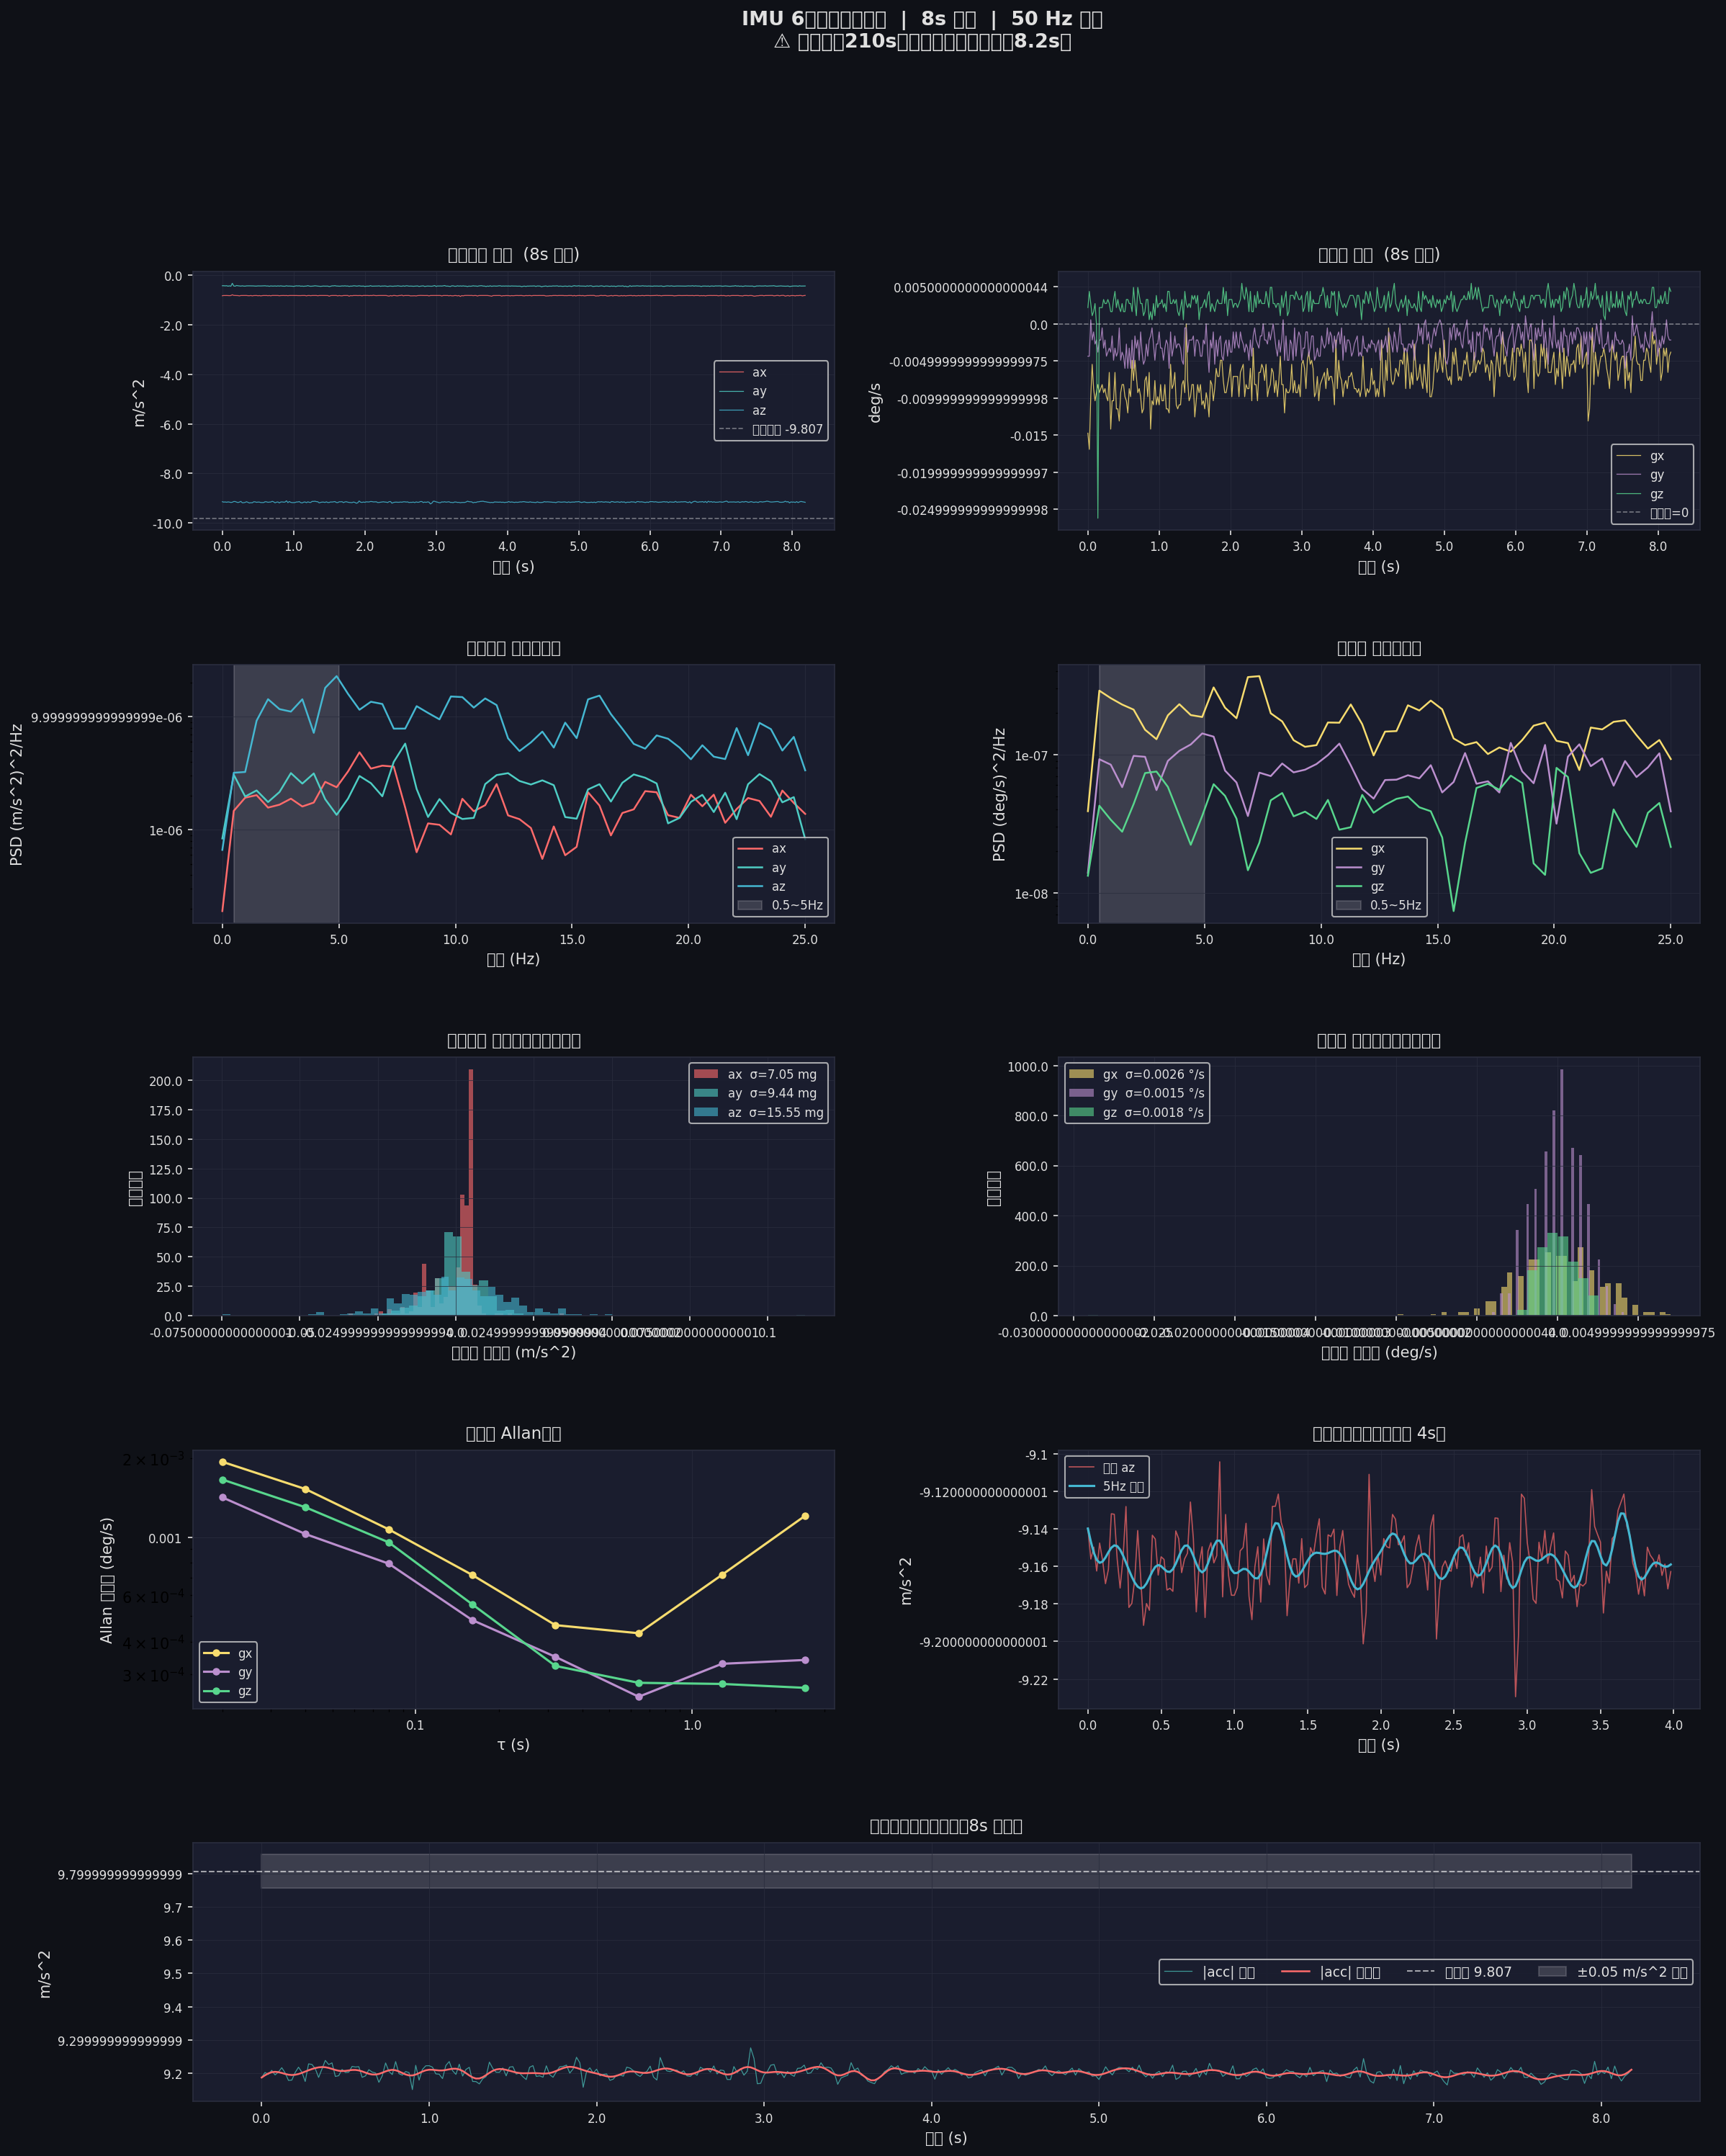
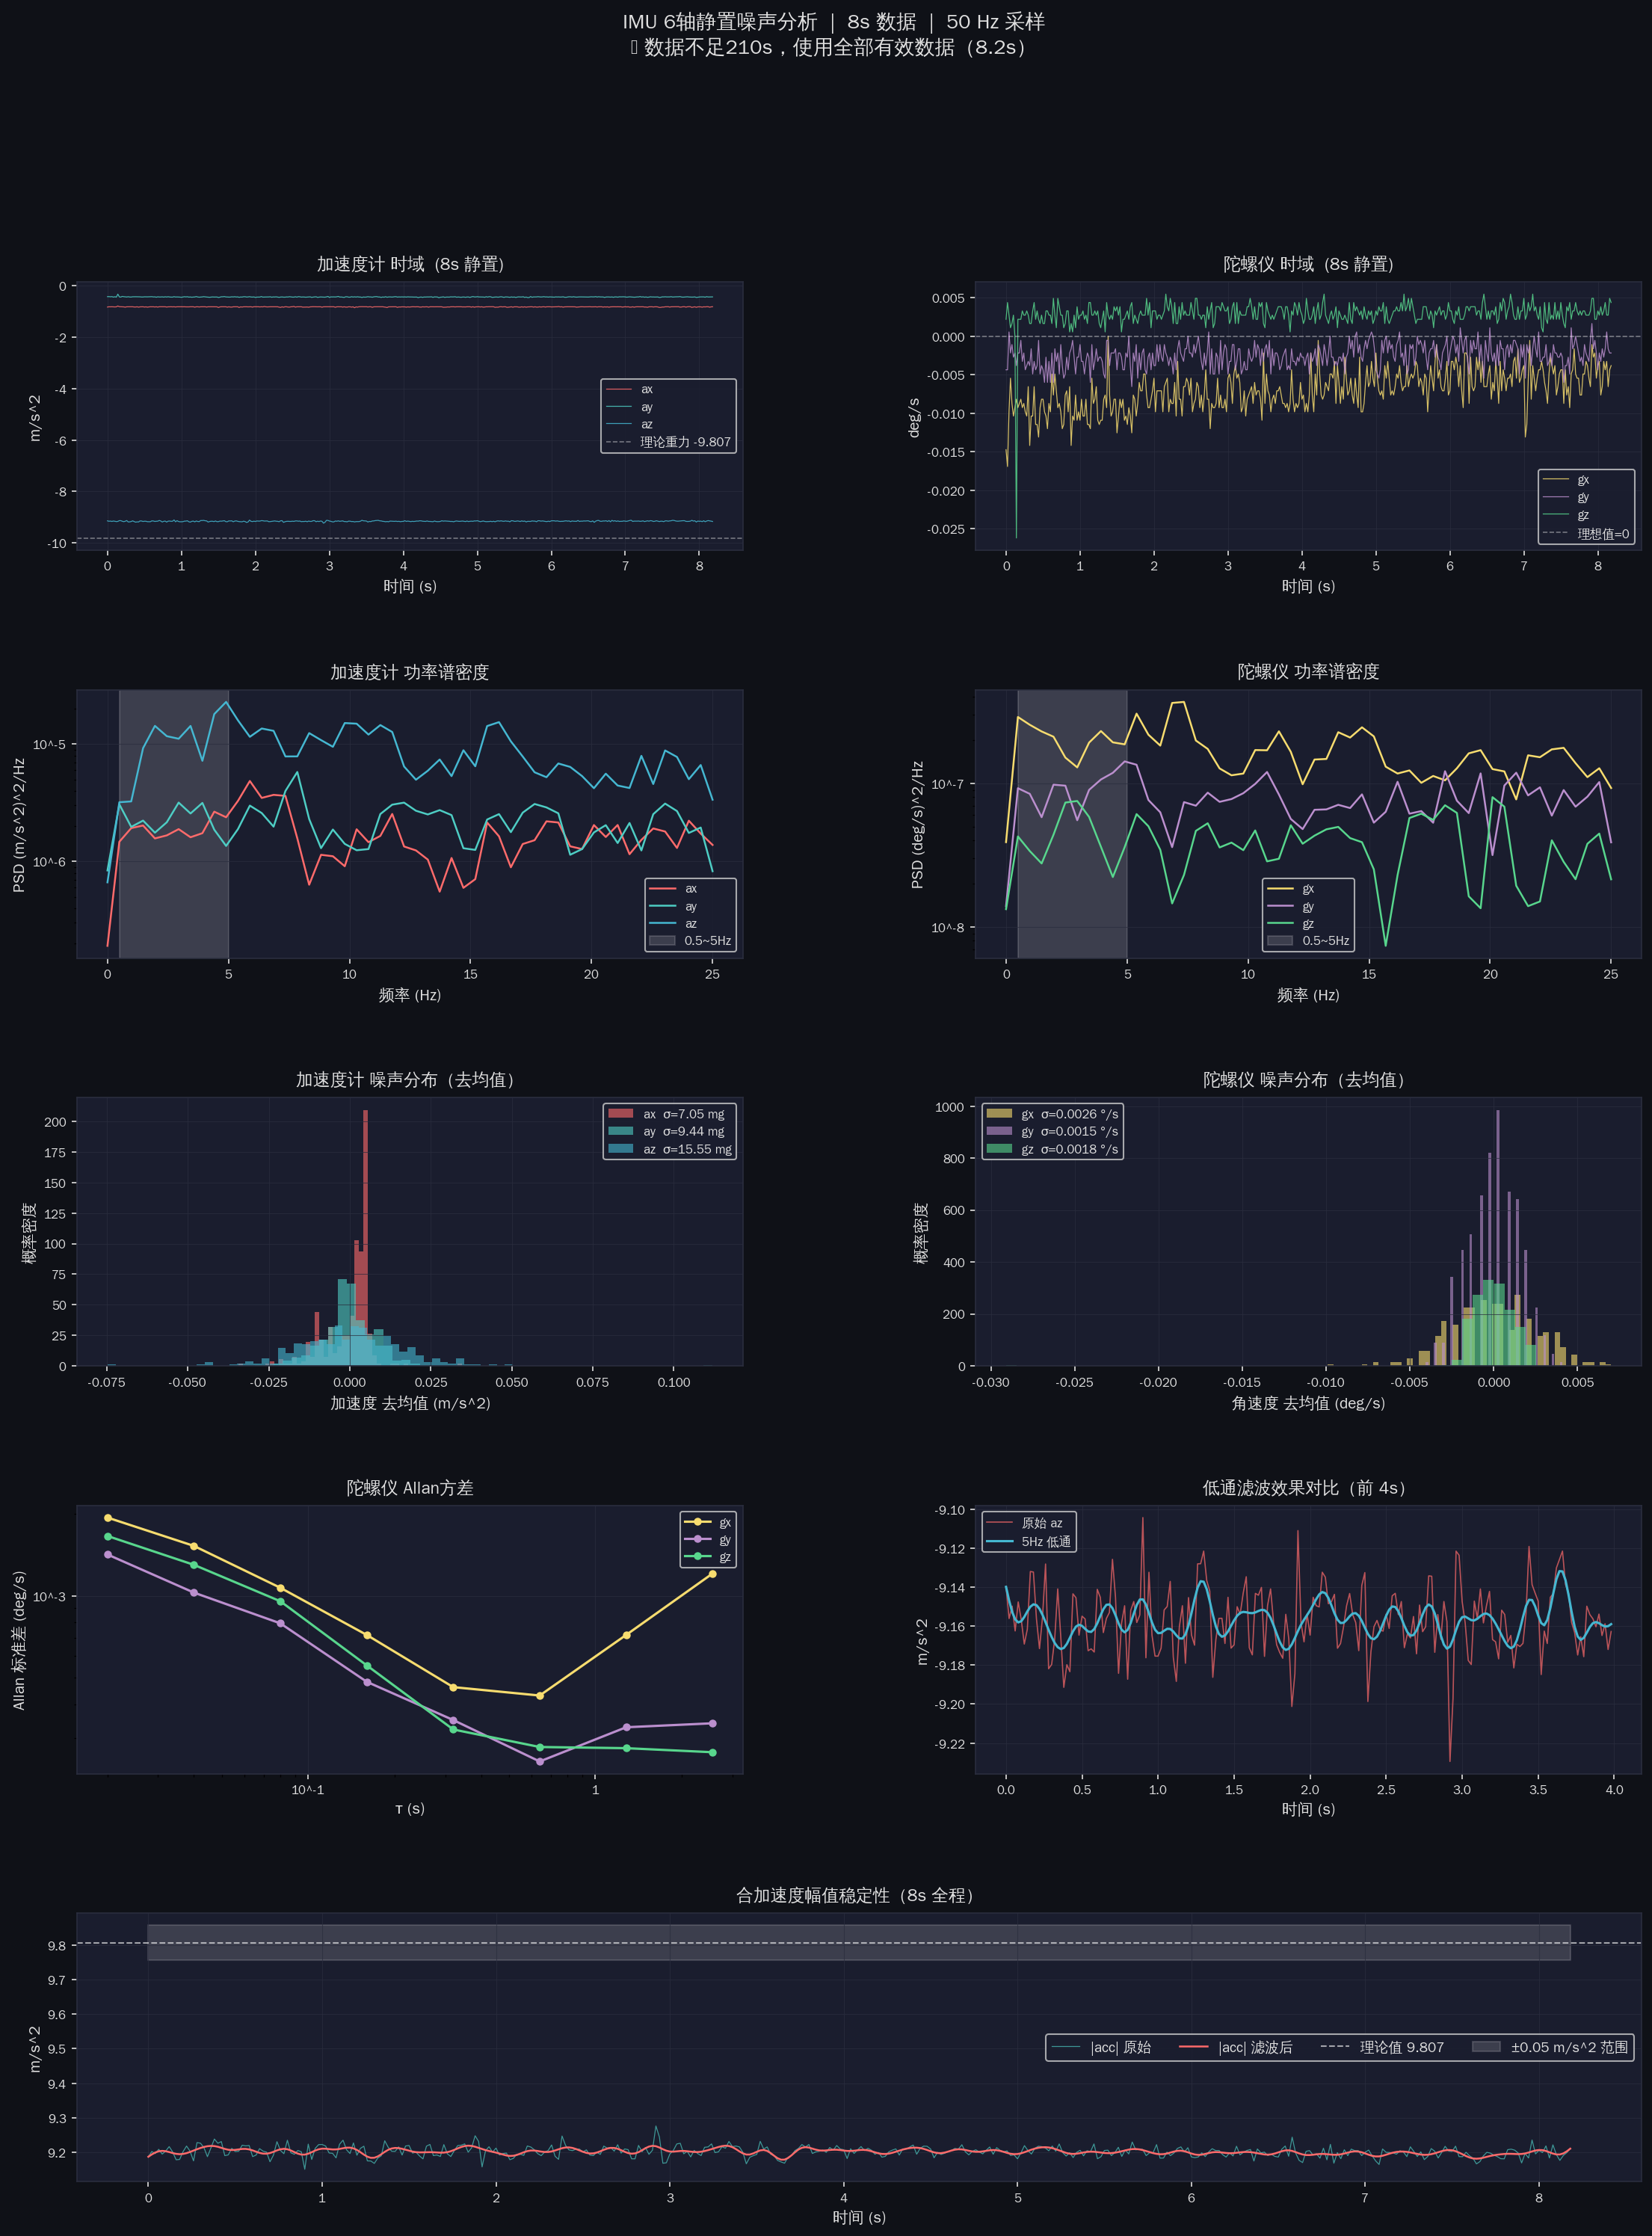
fix: resolve Chinese garbled text and u+2212 warnings on Ubuntu
- Switch font.sans-serif to WenQuanYi Zen Hei (available on Ubuntu
  via fonts-wqy-zenhei), drop Windows-only SimHei/YaHei
- Set axes.unicode_minus = False to use ASCII hyphen in linear ticks
- Add _plain_log_fmt() for log-scale axes: returns plain text like
  '10^-6' instead of mathtext '$\mathdefault{10^{-6}}$', which
  bypasses the LogFormatterMathtext path that hard-codes U+2212 in
  the exponent regardless of unicode_minus setting
- style_ax() now applies ScalarFormatter to linear axes and
  _plain_log_fmt + NullFormatter(minor) to log axes per-axis

https://claude.ai/code/session_01FHCsDFWpEVKPPhTtYzm8ET

diff --git a/imu_noise_analysis.py b/imu_noise_analysis.py
@@ -25,9 +25,13 @@ from scipy import signal
 warnings.filterwarnings('ignore')
 
 matplotlib.rcParams['font.sans-serif'] = [
-    'SimHei', 'Arial Unicode MS', 'Microsoft YaHei', 'DejaVu Sans'
+    'WenQuanYi Zen Hei', 'WenQuanYi Micro Hei',
+    'Noto Sans CJK SC', 'Source Han Sans CN',
+    'SimHei', 'Arial Unicode MS',
+    'DejaVu Sans',
 ]
-matplotlib.rcParams['axes.unicode_minus'] = True
+matplotlib.rcParams['axes.unicode_minus'] = False
+matplotlib.rcParams['axes.formatter.use_mathtext'] = False
 
 # ─── 配置 ───────────────────────────────────────────────────────────────────
 SCRIPT_DIR     = os.path.dirname(os.path.abspath(__file__))
@@ -136,6 +140,19 @@ def allan_variance(data, fs):
     return np.array(taus), np.array(avars)
 
 
+def _plain_log_fmt(x, pos):
+    """对数轴刻度标签：纯文本，不走 mathtext，避免 WenQuanYi 缺少 U+2212。"""
+    import math as _math
+    if x <= 0:
+        return ''
+    exp = int(round(_math.log10(x)))
+    if exp == 0:
+        return '1'
+    sign = '-' if exp < 0 else ''
+    return f'10^{sign}{abs(exp)}'
+
+
+
 def style_ax(ax, title, text_c='#e0e0e0', bg='#1a1d2e', grid_c='#2a2d3e'):
     ax.set_facecolor(bg)
     ax.set_title(title, color=text_c, fontsize=11, pad=8)
@@ -145,9 +162,15 @@ def style_ax(ax, title, text_c='#e0e0e0', bg='#1a1d2e', grid_c='#2a2d3e'):
     ax.grid(True, color=grid_c, linewidth=0.5, alpha=0.7)
     ax.xaxis.label.set_color(text_c)
     ax.yaxis.label.set_color(text_c)
-    fmt = mticker.FuncFormatter(lambda x, _: str(x).replace('−', '-'))
-    ax.xaxis.set_major_formatter(fmt)
-    ax.yaxis.set_major_formatter(fmt)
+    # 线性轴用 ScalarFormatter（ASCII 负号），对数轴用纯文本 formatter
+    for axis, scale in ((ax.xaxis, ax.get_xscale()), (ax.yaxis, ax.get_yscale())):
+        if scale == 'log':
+            axis.set_major_formatter(mticker.FuncFormatter(_plain_log_fmt))
+            axis.set_minor_formatter(mticker.NullFormatter())
+        else:
+            fmt = mticker.ScalarFormatter(useOffset=False, useMathText=False)
+            fmt.set_scientific(False)
+            axis.set_major_formatter(fmt)
 
 
 # ─── 主流程 ─────────────────────────────────────────────────────────────────